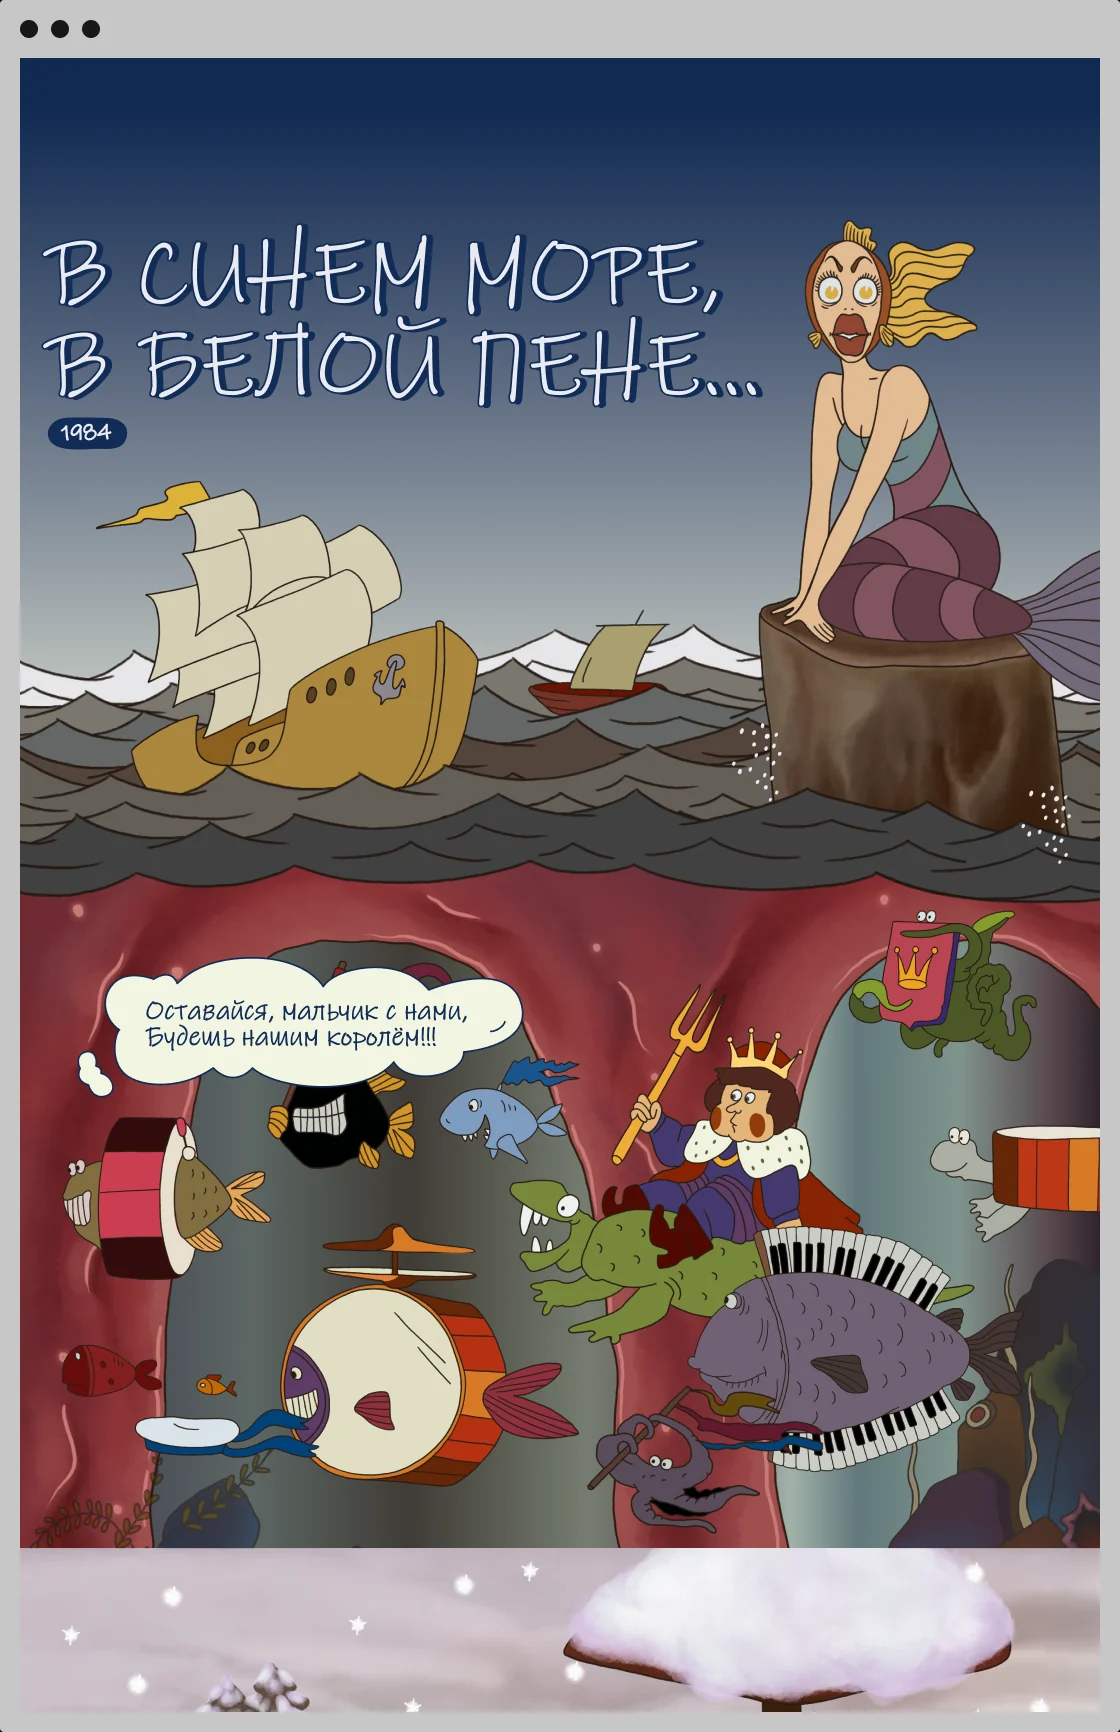
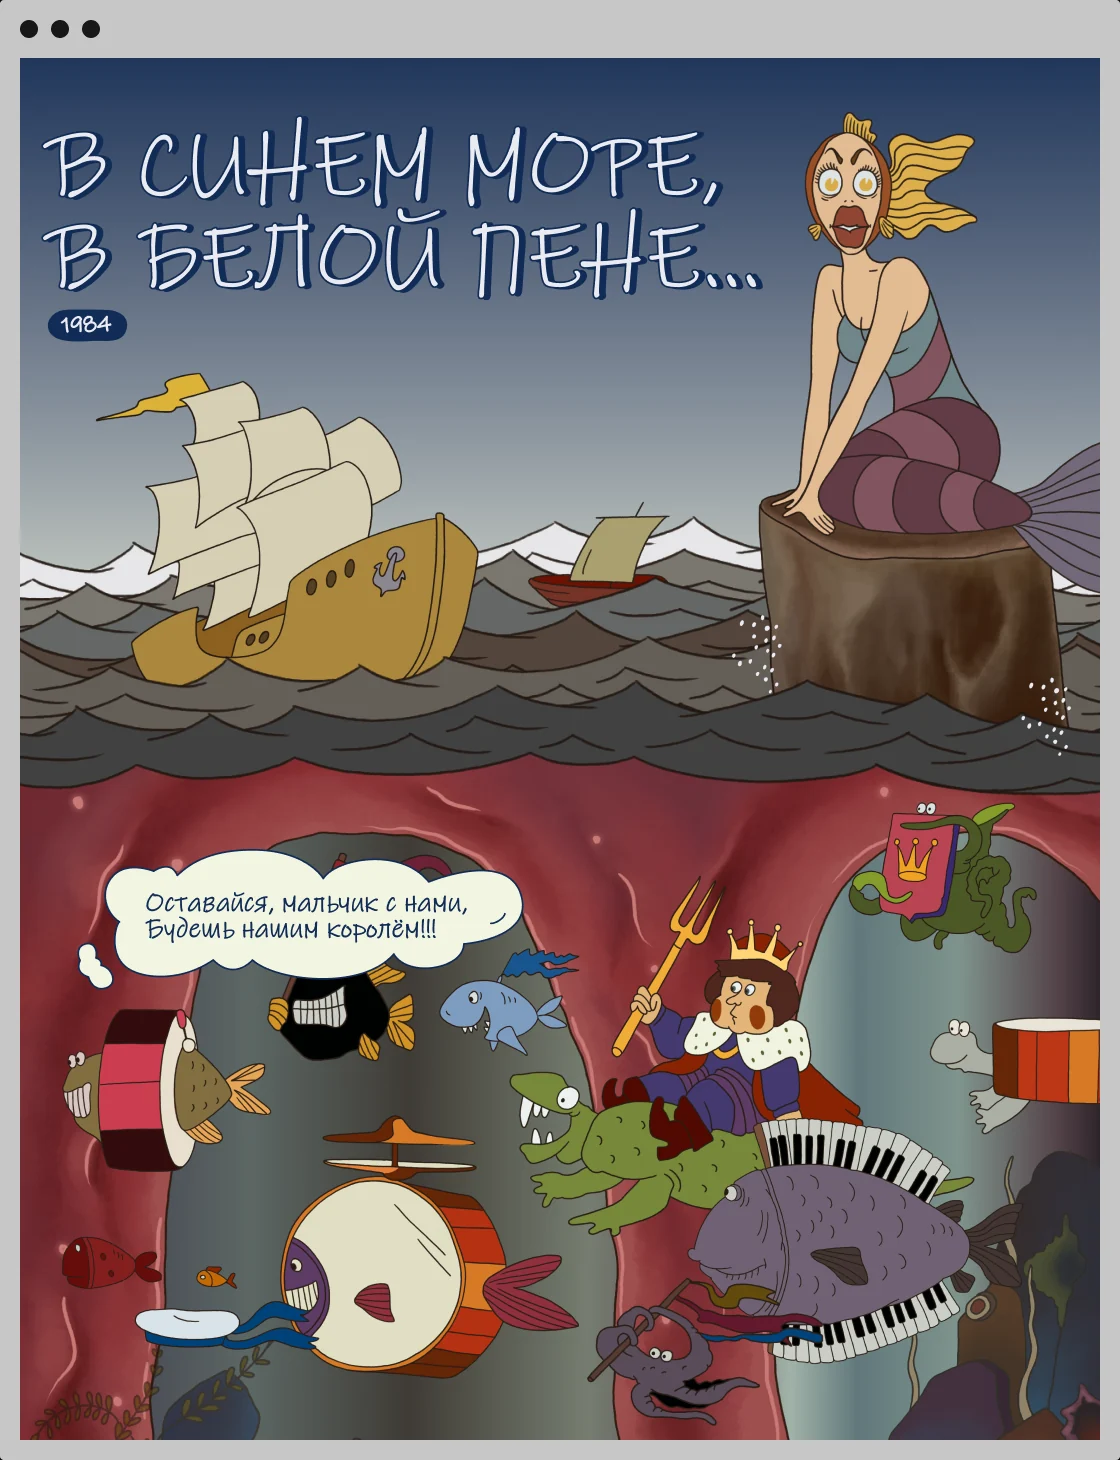
Кейс #6: карточки по два экрана, описание по низу превью, отступ до скринов как в остальных
Claude-Session: https://claude.ai/code/session_01VoSRDSBLadYxEjhpN71N9v

diff --git a/style.css b/style.css
@@ -437,6 +437,9 @@ a:hover { opacity: .6; }
   flex-direction: column;
 }
 .case__collage { width: 100%; }
+/* кейс без мобилки: описание по нижнему краю главного экрана, до скринов — как в остальных кейсах */
+.case--nophone .case__stage { height: calc(749 * var(--u)); }
+.case--nophone .case__desc { margin-bottom: 0; }
 .case__desc {
   margin-top: auto;
   margin-bottom: calc(48 * var(--u));
